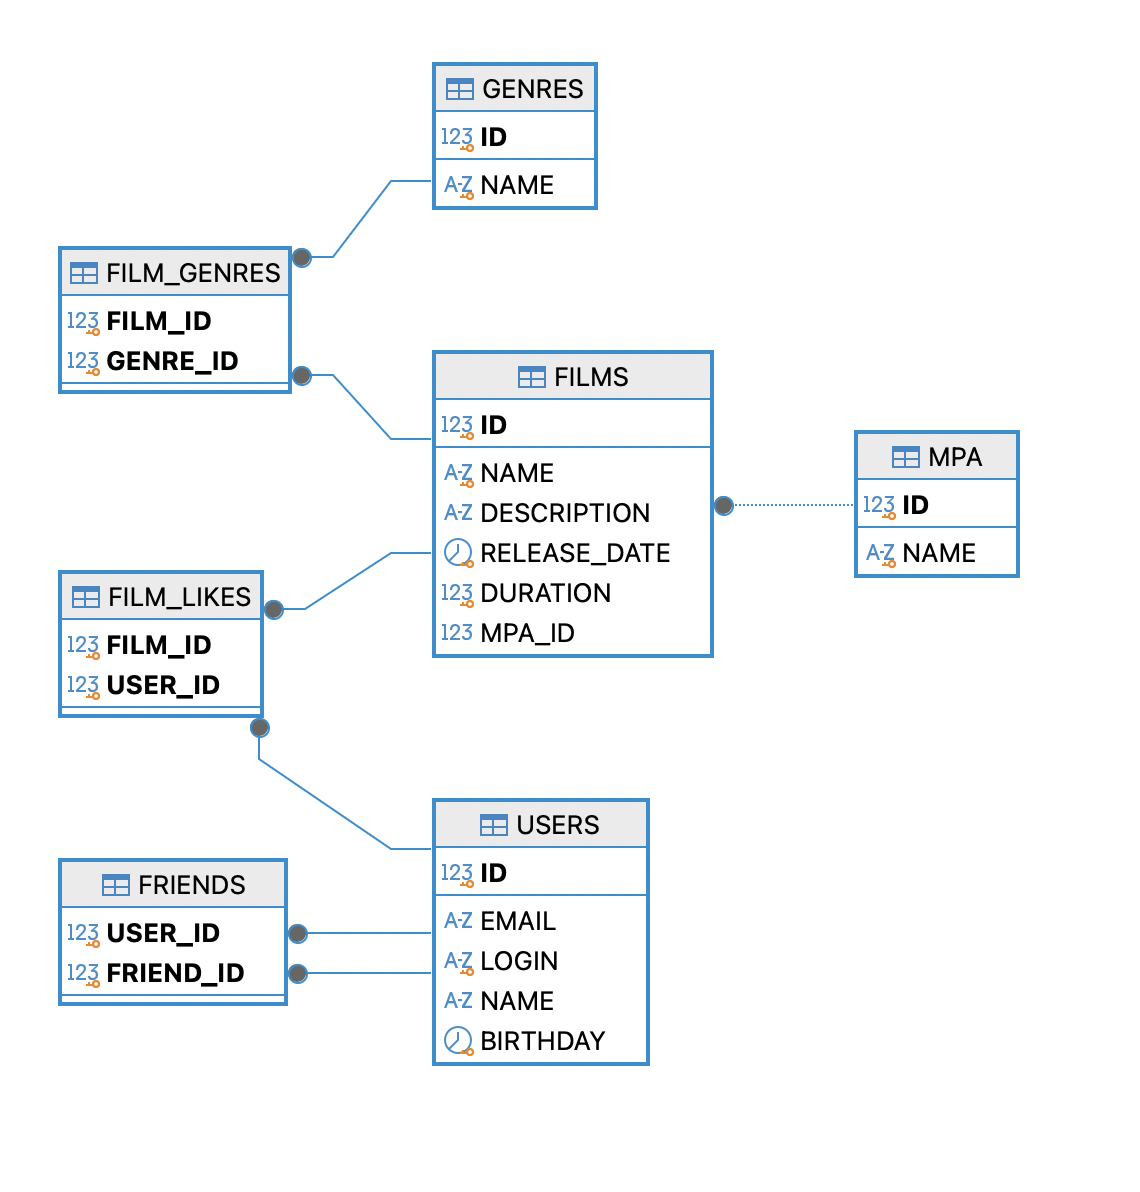
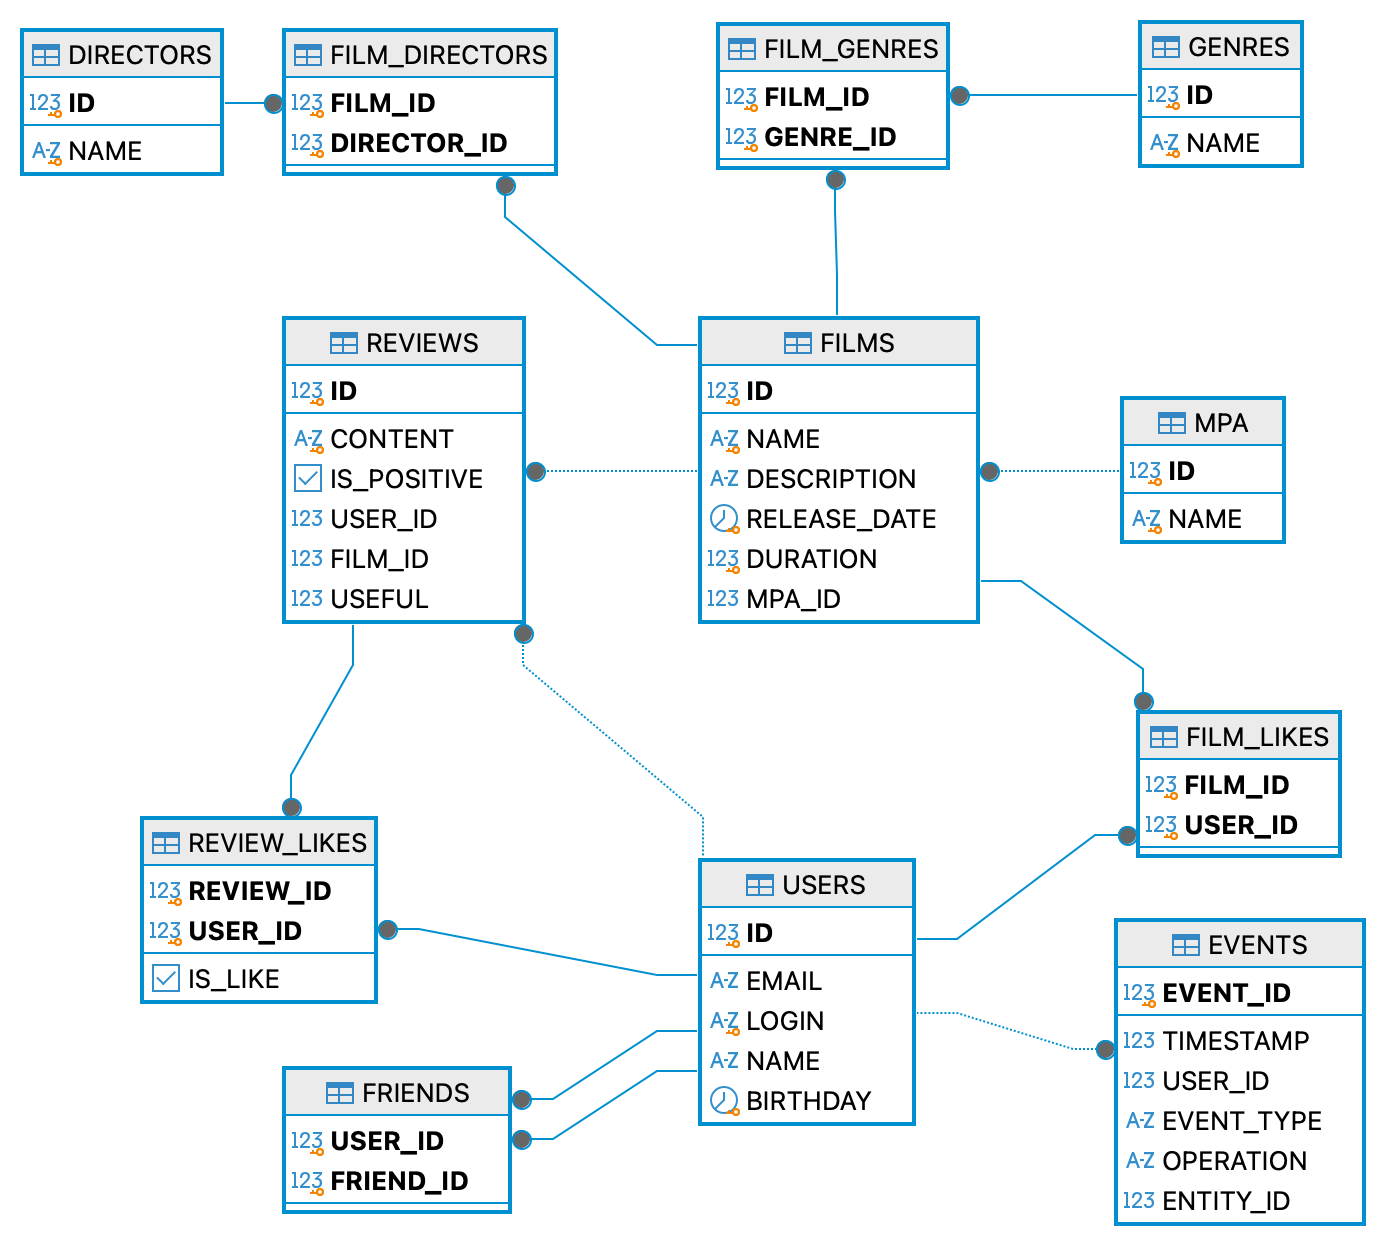
Обновлена схема и описание таблиц

diff --git a/README.md b/README.md
@@ -1,8 +1,8 @@
 # java-filmorate
-## Схема базы данных
-В проекте используется реляционная база данных. Ниже представлена структура таблиц, типы данных и связи между ними.
 
+## Схема базы данных
 ![schema.png](schema/schema.png)
+В проекте используется реляционная база данных. Ниже представлена структура таблиц, типы данных и связи между ними.
 
 ## Таблицы
 
@@ -13,8 +13,11 @@
 * `film_genres` — таблица связей many-to-many между фильмами и жанрами.
 * `film_likes` — таблица связей many-to-many для хранения лайков от пользователей к фильмам.
 * `friends` — таблица связей между пользователями.
+* `directors` — данные о режиссёрах.
+* `film_directors` — таблица связей many-to-many между фильмами и режиссёрами.
 * `reviews` — отзывы пользователей на фильмы.
-* `review_likes` — лайки и дизлайки отзывов (рейтинг полезности отзыва).
+* `review_likes` — лайки и дизлайки отзывов.
+* `events` — лента событий.
 
 #### 1. Таблица `users` (Пользователи)
 
@@ -39,24 +42,24 @@
 
 #### 3. Таблица `mpa` (Рейтинги MPA)
 
-| Поле       | Тип данных | Описание                             |
-|:-----------|:-----------|:-------------------------------------|
-| `id` (PK)  | INTEGER    | Уникальный идентификатор рейтинга    |
-| `name`     | VARCHAR    | Название рейтинга (G, PG, R и т.д.)  |
+| Поле       | Тип данных | Описание                            |
+|:-----------|:-----------|:------------------------------------|
+| `id` (PK)  | INTEGER    | Уникальный идентификатор рейтинга   |
+| `name`     | VARCHAR    | Название рейтинга (G, PG, R и т.д.) |
 
 #### 4. Таблица `genres` (Жанры)
 
-| Поле       | Тип данных | Описание                        |
-|:-----------|:-----------|:--------------------------------|
-| `id` (PK)  | INTEGER    | Уникальный идентификатор жанра  |
-| `name`     | VARCHAR    | Название жанра                  |
+| Поле       | Тип данных | Описание                       |
+|:-----------|:-----------|:-------------------------------|
+| `id` (PK)  | INTEGER    | Уникальный идентификатор жанра |
+| `name`     | VARCHAR    | Название жанра                 |
 
 #### 5. Таблица `film_genres` (Жанры фильмов)
 
-| Поле                | Тип данных | Описание                                     |
-|:--------------------|:-----------|:---------------------------------------------|
-| `film_id` (PK, FK)  | BIGINT     | Идентификатор фильма (ссылка на `films.id`)  |
-| `genre_id` (PK, FK) | INTEGER    | Идентификатор жанра (ссылка на `genres.id`)  |
+| Поле                | Тип данных | Описание                                    |
+|:--------------------|:-----------|:--------------------------------------------|
+| `film_id` (PK, FK)  | BIGINT     | Идентификатор фильма (ссылка на `films.id`) |
+| `genre_id` (PK, FK) | INTEGER    | Идентификатор жанра (ссылка на `genres.id`) |
 
 #### 6. Таблица `film_likes` (Лайки фильмов)
 
@@ -67,72 +70,93 @@
 
 #### 7. Таблица `friends` (Друзья)
 
-| Поле                 | Тип данных | Описание                                                        |
-|:---------------------|:-----------|:----------------------------------------------------------------|
-| `user_id` (PK, FK)   | BIGINT     | Идентификатор инициатора дружбы (ссылка на `users.id`)          |
-| `friend_id` (PK, FK) | BIGINT     | Идентификатор подтверждающего друга (ссылка на `users.id`)      |
+| Поле                 | Тип данных | Описание                                                   |
+|:---------------------|:-----------|:-----------------------------------------------------------|
+| `user_id` (PK, FK)   | BIGINT     | Идентификатор инициатора дружбы (ссылка на `users.id`)     |
+| `friend_id` (PK, FK) | BIGINT     | Идентификатор подтверждающего друга (ссылка на `users.id`) |
 
-#### 8. Таблица `reviews` (Отзывы)
+#### 8. Таблица `directors` (Режиссёры)
 
-| Поле                | Тип данных | Описание                                          |
-|:--------------------|:-----------|:--------------------------------------------------|
-| `id` (PK)           | BIGINT     | Уникальный идентификатор отзыва                   |
-| `content`           | VARCHAR    | Текст отзыва                                      |
-| `is_positive`       | BOOLEAN    | Тип отзыва: положительный / негативный            |
-| `user_id` (FK)      | BIGINT     | Автор отзыва (ссылка на `users.id`)               |
-| `film_id` (FK)      | BIGINT     | Фильм, к которому относится отзыв (`films.id`)    |
+| Поле      | Тип данных | Описание                           |
+|:----------|:-----------|:-----------------------------------|
+| `id` (PK) | BIGINT     | Уникальный идентификатор режиссёра |
+| `name`    | VARCHAR    | Имя режиссёра                      |
 
-Рейтинг полезности `useful` в таблице не хранится, а вычисляется: количество лайков минус количество дизлайков.
+#### 9. Таблица `film_directors` (Режиссёры фильмов)
 
-#### 9. Таблица `review_likes` (Оценки отзывов)
+| Поле                   | Тип данных | Описание                                            |
+|:-----------------------|:-----------|:----------------------------------------------------|
+| `film_id` (PK, FK)     | BIGINT     | Идентификатор фильма (ссылка на `films.id`)         |
+| `director_id` (PK, FK) | BIGINT     | Идентификатор режиссёра (ссылка на `directors.id`)  |
 
-| Поле                  | Тип данных | Описание                                        |
-|:----------------------|:-----------|:------------------------------------------------|
-| `review_id` (PK, FK)  | BIGINT     | Идентификатор отзыва (ссылка на `reviews.id`)   |
-| `user_id` (PK, FK)    | BIGINT     | Кто оценил (ссылка на `users.id`)               |
-| `is_like`             | BOOLEAN    | `true` — лайк (+1), `false` — дизлайк (−1)      |
+#### 10. Таблица `reviews` (Отзывы)
 
+| Поле           | Тип данных | Описание                                                                |
+|:---------------|:-----------|:------------------------------------------------------------------------|
+| `id` (PK)      | BIGINT     | Уникальный идентификатор отзыва                                         |
+| `content`      | VARCHAR    | Текст отзыва                                                            |
+| `is_positive`  | BOOLEAN    | Тип отзыва (`true` — положительный, `false` — отрицательный)            |
+| `user_id` (FK) | BIGINT     | Идентификатор автора отзыва (ссылка на `users.id`)                      |
+| `film_id` (FK) | BIGINT     | Идентификатор фильма, к которому оставлен отзыв (ссылка на `films.id`)  |
+| `useful`       | INTEGER    | Рейтинг полезности отзыва (по умолчанию `0`)                            |
+
+#### 11. Таблица `review_likes` (Оценки отзывов)
+
+| Поле                 | Тип данных | Описание                                                     |
+|:---------------------|:-----------|:-------------------------------------------------------------|
+| `review_id` (PK, FK) | BIGINT     | Идентификатор отзыва (ссылка на `reviews.id`)                |
+| `user_id` (PK, FK)   | BIGINT     | Идентификатор пользователя (ссылка на `users.id`)            |
+| `is_like`            | BOOLEAN    | Тип оценки (`true` — лайк, `false` — дизлайк)                |
+
+#### 12. Таблица `events` (Лента событий)
+
+| Поле            | Тип данных  | Описание                                                                        |
+|:----------------|:------------|:--------------------------------------------------------------------------------|
+| `event_id` (PK) | BIGINT      | Уникальный идентификатор события                                                |
+| `timestamp`     | BIGINT      | Временная метка совершения действия (в миллисекундах)                           |
+| `user_id` (FK)  | BIGINT      | Идентификатор пользователя, совершившего действие (ссылка на `users.id`)        |
+| `event_type`    | VARCHAR(10) | Тип сущности, с которой связано событие (`LIKE`, `REVIEW`, `FRIEND`)            |
+| `operation`     | VARCHAR(10) | Тип выполненной операции (`REMOVE`, `ADD`, `UPDATE`)                            |
+| `entity_id`     | BIGINT      | Идентификатор сущности, над которой совершено действие (фильм, отзыв или друг)  |
 
 ## Примеры запросов
+
 ```
+-- Пользователи
 SELECT * FROM users;
 SELECT * FROM users WHERE id = ?;
+INSERT INTO users(email, login, name, birthday) VALUES (?, ?, ?, ?);
+UPDATE users SET email = ?, login = ?, name = ?, birthday = ? WHERE id = ?;
 
-INSERT INTO users(email, login, name, birthday)
-VALUES (?, ?, ?, ?);
-
-UPDATE users
-SET email = ?, login = ?, name = ?, birthday = ?
-WHERE id = ?;
-
-INSERT INTO film_likes (film_id, user_id)
-VALUES (?, ?);
-
+-- Лайки и жанры фильмов
+INSERT INTO film_likes (film_id, user_id) VALUES (?, ?);
 DELETE FROM film_likes WHERE film_id = ? AND user_id = ?;
-
-SELECT u.* 
-FROM friends AS f
-LEFT JOIN users AS u ON f.friend_id = u.id
-WHERE f.user_id = ?;
-                    
-SELECT u.* 
-FROM users AS u 
-JOIN friends AS f1 ON u.id = f1.friend_id 
-JOIN friends AS f2 ON f1.friend_id = f2.friend_id 
-WHERE f1.user_id = ? AND f2.user_id = ?;
-
-INSERT INTO film_genres (film_id, genre_id)
-VALUES (?, ?);
-
+INSERT INTO film_genres (film_id, genre_id) VALUES (?, ?);
 DELETE FROM film_genres WHERE film_id = ?;
 
--- отзывы: рейтинг полезности = лайки - дизлайки
-SELECT r.id, r.content, r.is_positive, r.user_id, r.film_id,
-       COALESCE(SUM(CASE WHEN rl.is_like THEN 1 WHEN rl.is_like = FALSE THEN -1 ELSE 0 END), 0) AS useful
-FROM reviews r
-LEFT JOIN review_likes rl ON r.id = rl.review_id
-WHERE r.film_id = ?
-GROUP BY r.id
-ORDER BY useful DESC
-LIMIT ?;
+-- Друзья
+SELECT u.* FROM friends AS f LEFT JOIN users AS u ON f.friend_id = u.id WHERE f.user_id = ?;
+SELECT u.* FROM users AS u JOIN friends AS f1 ON u.id = f1.friend_id JOIN friends AS f2 ON f1.friend_id = f2.friend_id WHERE f1.user_id = ? AND f2.user_id = ?;
+
+-- Режиссёры
+SELECT * FROM directors;
+SELECT * FROM directors WHERE id = ?;
+INSERT INTO directors (name) VALUES (?);
+UPDATE directors SET name = ? WHERE id = ?;
+DELETE FROM directors WHERE id = ?;
+INSERT INTO film_directors (film_id, director_id) VALUES (?, ?);
+DELETE FROM film_directors WHERE film_id = ?;
+
+-- Отзывы и их оценки
+INSERT INTO reviews (content, is_positive, user_id, film_id) VALUES (?, ?, ?, ?);
+UPDATE reviews SET content = ?, is_positive = ? WHERE id = ?;
+DELETE FROM reviews WHERE id = ?;
+SELECT * FROM reviews WHERE film_id = ? ORDER BY useful DESC LIMIT ?;
+INSERT INTO review_likes (review_id, user_id, is_like) VALUES (?, ?, ?);
+DELETE FROM review_likes WHERE review_id = ? AND user_id = ?;
+UPDATE reviews SET useful = useful + ? WHERE id = ?;
+
+-- Лента событий
+INSERT INTO events (timestamp, user_id, event_type, operation, entity_id) VALUES (?, ?, ?, ?, ?);
+SELECT * FROM events WHERE user_id = ? ORDER BY event_id;
 ```
